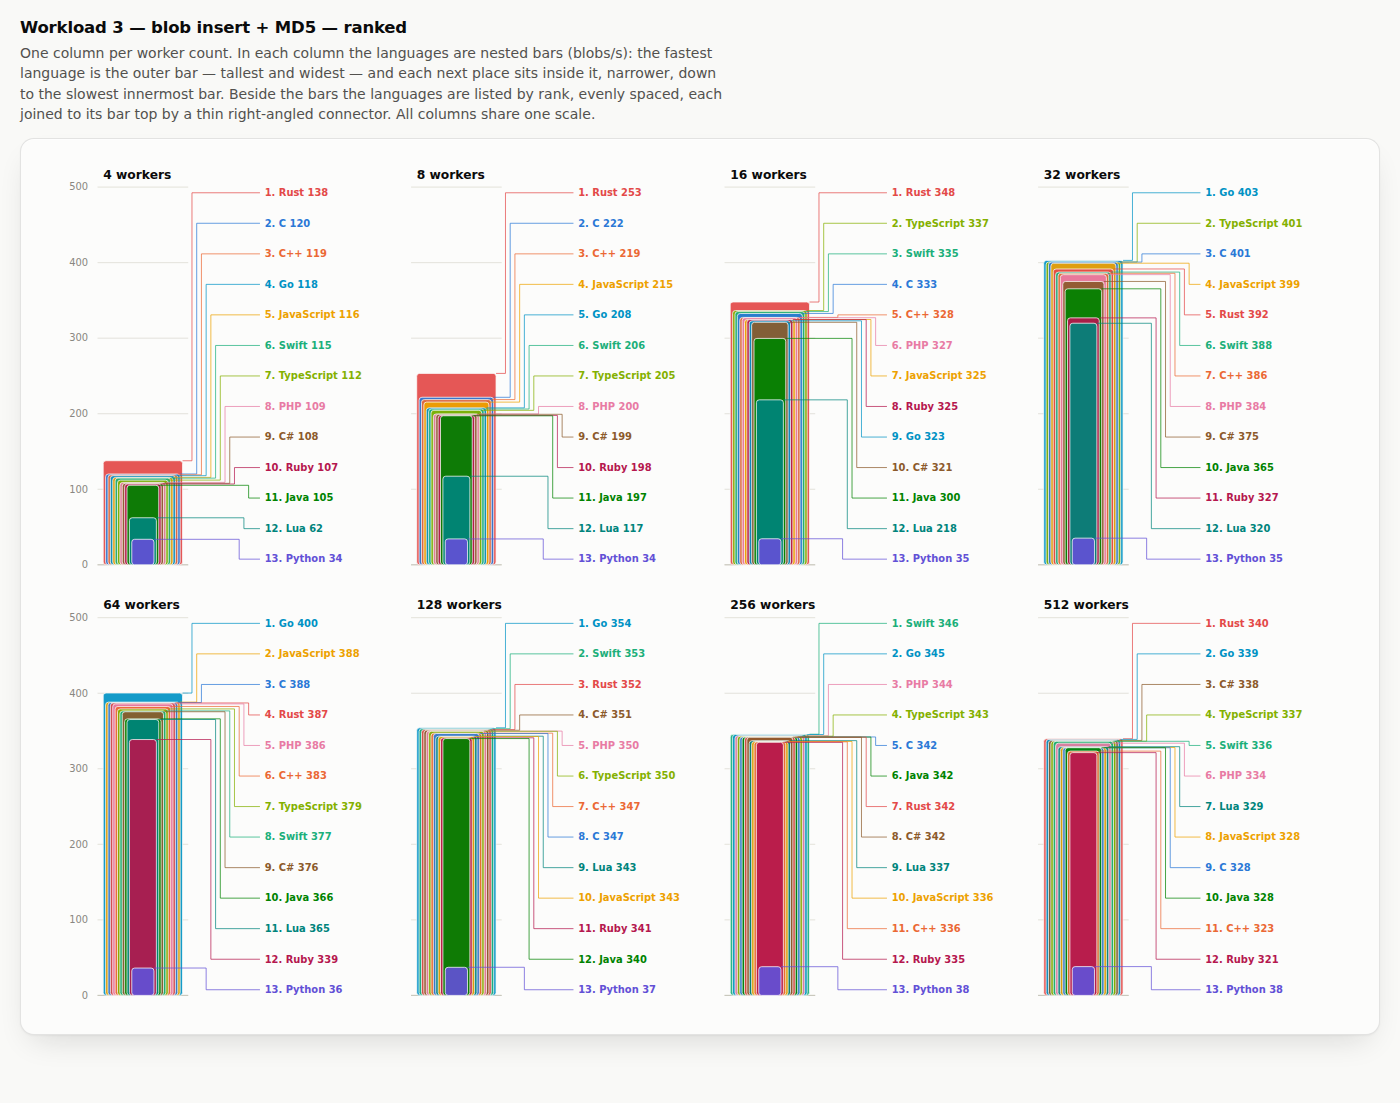
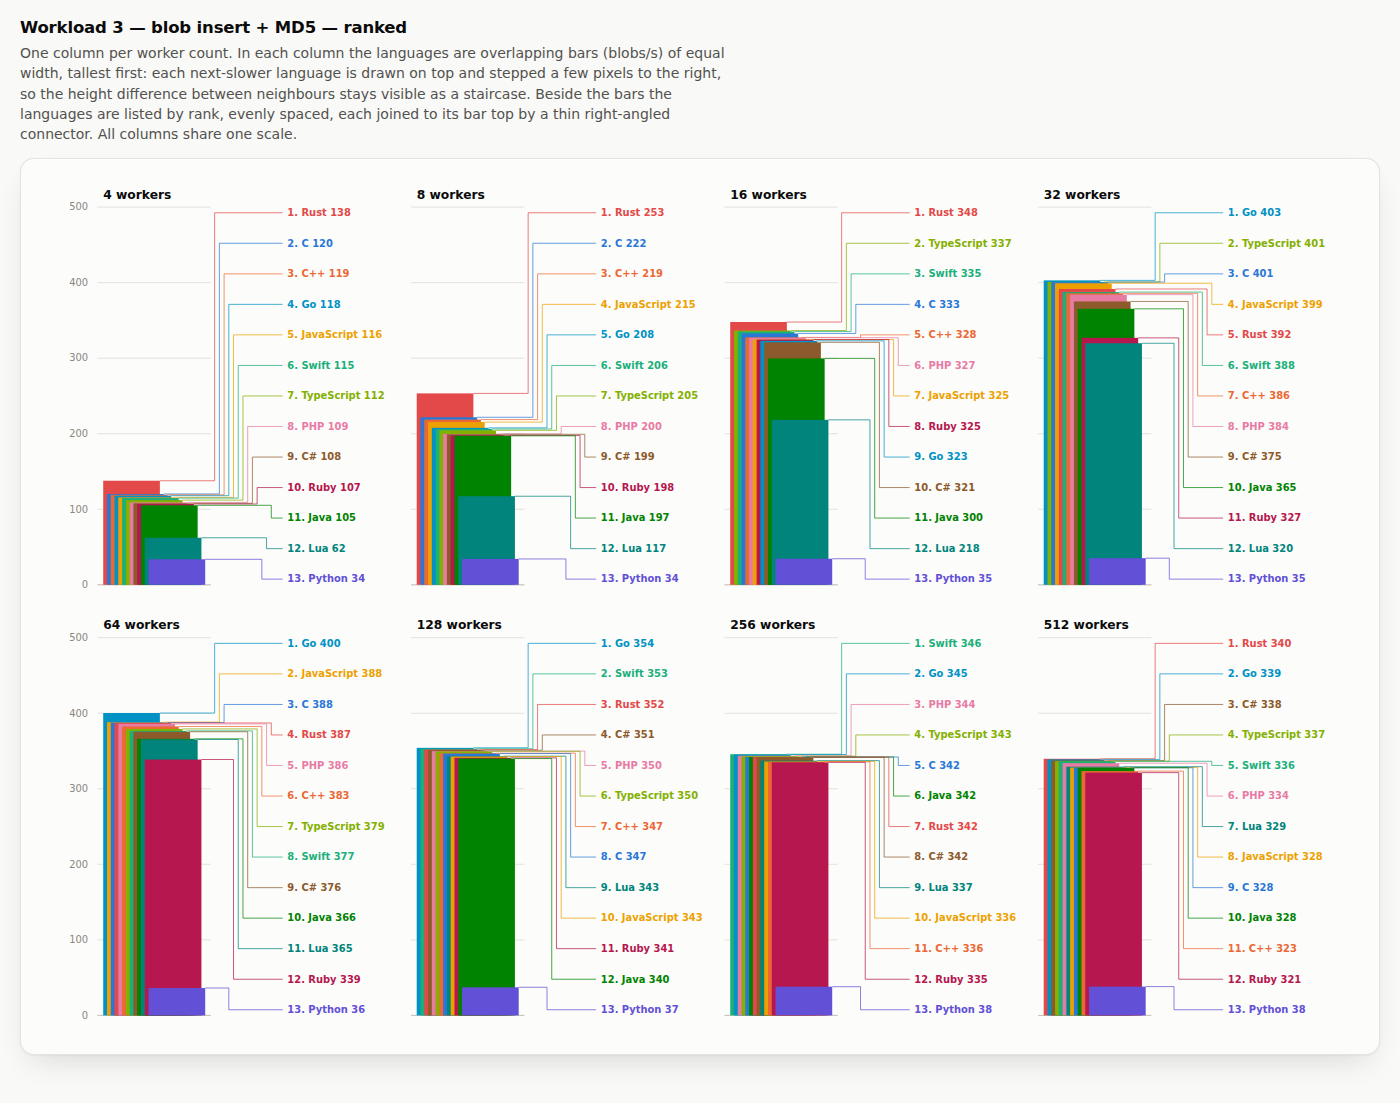
report: flat, equal-width, right-stepped bars on the ranked charts
Bars on ranked.html lose their rounded corners and outlines (solid colour only)
and are all the same width; instead of nesting narrower bars, each next-slower
language is drawn on top of the previous one shifted 4px to the right, so a
strip of every taller bar stays visible on the left and the height differences
read as a staircase. Subtitle updated to match.

diff --git a/report/ranked.html b/report/ranked.html
@@ -114,22 +114,22 @@
 
   <section id="sec-w1-rank">
     <h2>Workload 1 — integer insert — ranked</h2>
-    <p class="sub">One column per worker count. In each column the languages are nested bars (rows/s): the fastest language is the outer bar &mdash; tallest and widest &mdash; and each next place sits inside it, narrower, down to the slowest innermost bar. Beside the bars the languages are listed by rank, evenly spaced, each joined to its bar top by a thin right-angled connector. All columns share one scale.</p>
+    <p class="sub">One column per worker count. In each column the languages are overlapping bars (rows/s) of equal width, tallest first: each next-slower language is drawn on top and stepped a few pixels to the right, so the height difference between neighbours stays visible as a staircase. Beside the bars the languages are listed by rank, evenly spaced, each joined to its bar top by a thin right-angled connector. All columns share one scale.</p>
     <div class="bigchart" id="chart-w1-rank"></div>
   </section>
   <section id="sec-w2-rank">
     <h2>Workload 2 — integer fetch + sum — ranked</h2>
-    <p class="sub">One column per worker count. In each column the languages are nested bars (rows/s): the fastest language is the outer bar &mdash; tallest and widest &mdash; and each next place sits inside it, narrower, down to the slowest innermost bar. Beside the bars the languages are listed by rank, evenly spaced, each joined to its bar top by a thin right-angled connector. All columns share one scale.</p>
+    <p class="sub">One column per worker count. In each column the languages are overlapping bars (rows/s) of equal width, tallest first: each next-slower language is drawn on top and stepped a few pixels to the right, so the height difference between neighbours stays visible as a staircase. Beside the bars the languages are listed by rank, evenly spaced, each joined to its bar top by a thin right-angled connector. All columns share one scale.</p>
     <div class="bigchart" id="chart-w2-rank"></div>
   </section>
   <section id="sec-w3-rank">
     <h2>Workload 3 — blob insert + MD5 — ranked</h2>
-    <p class="sub">One column per worker count. In each column the languages are nested bars (blobs/s): the fastest language is the outer bar &mdash; tallest and widest &mdash; and each next place sits inside it, narrower, down to the slowest innermost bar. Beside the bars the languages are listed by rank, evenly spaced, each joined to its bar top by a thin right-angled connector. All columns share one scale.</p>
+    <p class="sub">One column per worker count. In each column the languages are overlapping bars (blobs/s) of equal width, tallest first: each next-slower language is drawn on top and stepped a few pixels to the right, so the height difference between neighbours stays visible as a staircase. Beside the bars the languages are listed by rank, evenly spaced, each joined to its bar top by a thin right-angled connector. All columns share one scale.</p>
     <div class="bigchart" id="chart-w3-rank"></div>
   </section>
   <section id="sec-w4-rank">
     <h2>Workload 4 — blob read + MD5 — ranked</h2>
-    <p class="sub">One column per worker count. In each column the languages are nested bars (blobs/s): the fastest language is the outer bar &mdash; tallest and widest &mdash; and each next place sits inside it, narrower, down to the slowest innermost bar. Beside the bars the languages are listed by rank, evenly spaced, each joined to its bar top by a thin right-angled connector. All columns share one scale.</p>
+    <p class="sub">One column per worker count. In each column the languages are overlapping bars (blobs/s) of equal width, tallest first: each next-slower language is drawn on top and stepped a few pixels to the right, so the height difference between neighbours stays visible as a staircase. Beside the bars the languages are listed by rank, evenly spaced, each joined to its bar top by a thin right-angled connector. All columns share one scale.</p>
     <div class="bigchart" id="chart-w4-rank"></div>
   </section>
   <footer>
@@ -424,7 +424,7 @@ const PAGE_BARS = false;
     const BW = 1400, ML = 58, MR = 14, CW = (BW - ML - MR) / COLS;
     const TITLE_H = 26, PLOT_H = 400, ROW_B = 30, RH = TITLE_H + PLOT_H + ROW_B, TOP = 8;
     const BH = TOP + ROWS * RH;
-    const GW = 84, INNER_MIN = 0.28, CHW = 5;
+    const BARW = 60, OFF = 4, CHW = 5;   // equal bar width; each shorter bar shifted right by OFF
     const svg = el("svg", { viewBox: `0 0 ${BW} ${BH}`, role: "img", "aria-label": cfg.ariaLabel });
     const step = cfg.yMax / 5;
     T.forEach((t, ti) => {
@@ -433,6 +433,9 @@ const PAGE_BARS = false;
       const pt = y0 + TITLE_H, pb = pt + PLOT_H;              // plot top / bottom (baseline)
       const Y = v => pb - (v / cfg.yMax) * PLOT_H;
       const bx0 = x0 + 10;                                     // bar group left
+      // Languages at this worker count, best first.
+      const ranked = items.filter(it => it.vals[ti] != null).map(it => ({ it, v: it.vals[ti] })).sort((a, b) => b.v - a.v);
+      const n = ranked.length, GW = BARW + Math.max(0, n - 1) * OFF;
       // Column title.
       const tt = el("text", { x: bx0, y: y0 + 17, class: "coltitle" }); tt.textContent = `${t} workers`; svg.appendChild(tt);
       // Gridlines behind the bar group; y tick labels once per row (first column).
@@ -440,16 +443,13 @@ const PAGE_BARS = false;
         svg.appendChild(el("line", { x1: bx0 - 6, x2: bx0 + GW + 6, y1: Y(tv), y2: Y(tv), stroke: "var(--grid)", "stroke-width": 1 }));
         if (c === 0) { const yl = el("text", { x: ML - 6, y: Y(tv) + 3.5, "text-anchor": "end" }); yl.textContent = tv === 0 ? "0" : fmt(tv); svg.appendChild(yl); } }
       svg.appendChild(el("line", { x1: bx0 - 6, x2: bx0 + GW + 6, y1: pb, y2: pb, stroke: "var(--baseline)", "stroke-width": 1 }));
-      // Languages at this worker count, best first.
-      const ranked = items.filter(it => it.vals[ti] != null).map(it => ({ it, v: it.vals[ti] })).sort((a, b) => b.v - a.v);
-      const n = ranked.length, cx = bx0 + GW / 2;
+      // Flat equal-width bars, tallest first; each shorter one drawn on top,
+      // shifted OFF px right, so the height differences read as a staircase.
       const tops = [];
       ranked.forEach((e, j) => {
         const yt = Y(e.v), h = Math.max(1, pb - yt);
-        const w = GW * (n > 1 ? 1 - (1 - INNER_MIN) * j / (n - 1) : 1);
-        const bx = cx - w / 2, rr = Math.min(3, w / 2);
-        const bar = el("rect", { x: bx, y: yt, width: w, height: h, rx: rr, ry: rr, fill: e.it.st.color, "fill-opacity": "0.92",
-                                 stroke: "var(--surface-1)", "stroke-width": 0.8 });
+        const w = BARW, bx = bx0 + j * OFF;
+        const bar = el("rect", { x: bx, y: yt, width: w, height: h, fill: e.it.st.color });
         bar.style.cursor = "crosshair";
         bar.addEventListener("pointerenter", ev => showBar(ev, t, e.it, e.v, cfg.unit));
         bar.addEventListener("pointermove", moveTip);

diff --git a/report/annotated.html b/report/annotated.html
@@ -428,7 +428,7 @@ const PAGE_BARS = false;
     const BW = 1400, ML = 58, MR = 14, CW = (BW - ML - MR) / COLS;
     const TITLE_H = 26, PLOT_H = 400, ROW_B = 30, RH = TITLE_H + PLOT_H + ROW_B, TOP = 8;
     const BH = TOP + ROWS * RH;
-    const GW = 84, INNER_MIN = 0.28, CHW = 5;
+    const BARW = 60, OFF = 4, CHW = 5;   // equal bar width; each shorter bar shifted right by OFF
     const svg = el("svg", { viewBox: `0 0 ${BW} ${BH}`, role: "img", "aria-label": cfg.ariaLabel });
     const step = cfg.yMax / 5;
     T.forEach((t, ti) => {
@@ -437,6 +437,9 @@ const PAGE_BARS = false;
       const pt = y0 + TITLE_H, pb = pt + PLOT_H;              // plot top / bottom (baseline)
       const Y = v => pb - (v / cfg.yMax) * PLOT_H;
       const bx0 = x0 + 10;                                     // bar group left
+      // Languages at this worker count, best first.
+      const ranked = items.filter(it => it.vals[ti] != null).map(it => ({ it, v: it.vals[ti] })).sort((a, b) => b.v - a.v);
+      const n = ranked.length, GW = BARW + Math.max(0, n - 1) * OFF;
       // Column title.
       const tt = el("text", { x: bx0, y: y0 + 17, class: "coltitle" }); tt.textContent = `${t} workers`; svg.appendChild(tt);
       // Gridlines behind the bar group; y tick labels once per row (first column).
@@ -444,16 +447,13 @@ const PAGE_BARS = false;
         svg.appendChild(el("line", { x1: bx0 - 6, x2: bx0 + GW + 6, y1: Y(tv), y2: Y(tv), stroke: "var(--grid)", "stroke-width": 1 }));
         if (c === 0) { const yl = el("text", { x: ML - 6, y: Y(tv) + 3.5, "text-anchor": "end" }); yl.textContent = tv === 0 ? "0" : fmt(tv); svg.appendChild(yl); } }
       svg.appendChild(el("line", { x1: bx0 - 6, x2: bx0 + GW + 6, y1: pb, y2: pb, stroke: "var(--baseline)", "stroke-width": 1 }));
-      // Languages at this worker count, best first.
-      const ranked = items.filter(it => it.vals[ti] != null).map(it => ({ it, v: it.vals[ti] })).sort((a, b) => b.v - a.v);
-      const n = ranked.length, cx = bx0 + GW / 2;
+      // Flat equal-width bars, tallest first; each shorter one drawn on top,
+      // shifted OFF px right, so the height differences read as a staircase.
       const tops = [];
       ranked.forEach((e, j) => {
         const yt = Y(e.v), h = Math.max(1, pb - yt);
-        const w = GW * (n > 1 ? 1 - (1 - INNER_MIN) * j / (n - 1) : 1);
-        const bx = cx - w / 2, rr = Math.min(3, w / 2);
-        const bar = el("rect", { x: bx, y: yt, width: w, height: h, rx: rr, ry: rr, fill: e.it.st.color, "fill-opacity": "0.92",
-                                 stroke: "var(--surface-1)", "stroke-width": 0.8 });
+        const w = BARW, bx = bx0 + j * OFF;
+        const bar = el("rect", { x: bx, y: yt, width: w, height: h, fill: e.it.st.color });
         bar.style.cursor = "crosshair";
         bar.addEventListener("pointerenter", ev => showBar(ev, t, e.it, e.v, cfg.unit));
         bar.addEventListener("pointermove", moveTip);

diff --git a/report/report.html b/report/report.html
@@ -508,7 +508,7 @@ const PAGE_BARS = false;
     const BW = 1400, ML = 58, MR = 14, CW = (BW - ML - MR) / COLS;
     const TITLE_H = 26, PLOT_H = 400, ROW_B = 30, RH = TITLE_H + PLOT_H + ROW_B, TOP = 8;
     const BH = TOP + ROWS * RH;
-    const GW = 84, INNER_MIN = 0.28, CHW = 5;
+    const BARW = 60, OFF = 4, CHW = 5;   // equal bar width; each shorter bar shifted right by OFF
     const svg = el("svg", { viewBox: `0 0 ${BW} ${BH}`, role: "img", "aria-label": cfg.ariaLabel });
     const step = cfg.yMax / 5;
     T.forEach((t, ti) => {
@@ -517,6 +517,9 @@ const PAGE_BARS = false;
       const pt = y0 + TITLE_H, pb = pt + PLOT_H;              // plot top / bottom (baseline)
       const Y = v => pb - (v / cfg.yMax) * PLOT_H;
       const bx0 = x0 + 10;                                     // bar group left
+      // Languages at this worker count, best first.
+      const ranked = items.filter(it => it.vals[ti] != null).map(it => ({ it, v: it.vals[ti] })).sort((a, b) => b.v - a.v);
+      const n = ranked.length, GW = BARW + Math.max(0, n - 1) * OFF;
       // Column title.
       const tt = el("text", { x: bx0, y: y0 + 17, class: "coltitle" }); tt.textContent = `${t} workers`; svg.appendChild(tt);
       // Gridlines behind the bar group; y tick labels once per row (first column).
@@ -524,16 +527,13 @@ const PAGE_BARS = false;
         svg.appendChild(el("line", { x1: bx0 - 6, x2: bx0 + GW + 6, y1: Y(tv), y2: Y(tv), stroke: "var(--grid)", "stroke-width": 1 }));
         if (c === 0) { const yl = el("text", { x: ML - 6, y: Y(tv) + 3.5, "text-anchor": "end" }); yl.textContent = tv === 0 ? "0" : fmt(tv); svg.appendChild(yl); } }
       svg.appendChild(el("line", { x1: bx0 - 6, x2: bx0 + GW + 6, y1: pb, y2: pb, stroke: "var(--baseline)", "stroke-width": 1 }));
-      // Languages at this worker count, best first.
-      const ranked = items.filter(it => it.vals[ti] != null).map(it => ({ it, v: it.vals[ti] })).sort((a, b) => b.v - a.v);
-      const n = ranked.length, cx = bx0 + GW / 2;
+      // Flat equal-width bars, tallest first; each shorter one drawn on top,
+      // shifted OFF px right, so the height differences read as a staircase.
       const tops = [];
       ranked.forEach((e, j) => {
         const yt = Y(e.v), h = Math.max(1, pb - yt);
-        const w = GW * (n > 1 ? 1 - (1 - INNER_MIN) * j / (n - 1) : 1);
-        const bx = cx - w / 2, rr = Math.min(3, w / 2);
-        const bar = el("rect", { x: bx, y: yt, width: w, height: h, rx: rr, ry: rr, fill: e.it.st.color, "fill-opacity": "0.92",
-                                 stroke: "var(--surface-1)", "stroke-width": 0.8 });
+        const w = BARW, bx = bx0 + j * OFF;
+        const bar = el("rect", { x: bx, y: yt, width: w, height: h, fill: e.it.st.color });
         bar.style.cursor = "crosshair";
         bar.addEventListener("pointerenter", ev => showBar(ev, t, e.it, e.v, cfg.unit));
         bar.addEventListener("pointermove", moveTip);

diff --git a/report/bars.html b/report/bars.html
@@ -428,7 +428,7 @@ const PAGE_BARS = true;
     const BW = 1400, ML = 58, MR = 14, CW = (BW - ML - MR) / COLS;
     const TITLE_H = 26, PLOT_H = 400, ROW_B = 30, RH = TITLE_H + PLOT_H + ROW_B, TOP = 8;
     const BH = TOP + ROWS * RH;
-    const GW = 84, INNER_MIN = 0.28, CHW = 5;
+    const BARW = 60, OFF = 4, CHW = 5;   // equal bar width; each shorter bar shifted right by OFF
     const svg = el("svg", { viewBox: `0 0 ${BW} ${BH}`, role: "img", "aria-label": cfg.ariaLabel });
     const step = cfg.yMax / 5;
     T.forEach((t, ti) => {
@@ -437,6 +437,9 @@ const PAGE_BARS = true;
       const pt = y0 + TITLE_H, pb = pt + PLOT_H;              // plot top / bottom (baseline)
       const Y = v => pb - (v / cfg.yMax) * PLOT_H;
       const bx0 = x0 + 10;                                     // bar group left
+      // Languages at this worker count, best first.
+      const ranked = items.filter(it => it.vals[ti] != null).map(it => ({ it, v: it.vals[ti] })).sort((a, b) => b.v - a.v);
+      const n = ranked.length, GW = BARW + Math.max(0, n - 1) * OFF;
       // Column title.
       const tt = el("text", { x: bx0, y: y0 + 17, class: "coltitle" }); tt.textContent = `${t} workers`; svg.appendChild(tt);
       // Gridlines behind the bar group; y tick labels once per row (first column).
@@ -444,16 +447,13 @@ const PAGE_BARS = true;
         svg.appendChild(el("line", { x1: bx0 - 6, x2: bx0 + GW + 6, y1: Y(tv), y2: Y(tv), stroke: "var(--grid)", "stroke-width": 1 }));
         if (c === 0) { const yl = el("text", { x: ML - 6, y: Y(tv) + 3.5, "text-anchor": "end" }); yl.textContent = tv === 0 ? "0" : fmt(tv); svg.appendChild(yl); } }
       svg.appendChild(el("line", { x1: bx0 - 6, x2: bx0 + GW + 6, y1: pb, y2: pb, stroke: "var(--baseline)", "stroke-width": 1 }));
-      // Languages at this worker count, best first.
-      const ranked = items.filter(it => it.vals[ti] != null).map(it => ({ it, v: it.vals[ti] })).sort((a, b) => b.v - a.v);
-      const n = ranked.length, cx = bx0 + GW / 2;
+      // Flat equal-width bars, tallest first; each shorter one drawn on top,
+      // shifted OFF px right, so the height differences read as a staircase.
       const tops = [];
       ranked.forEach((e, j) => {
         const yt = Y(e.v), h = Math.max(1, pb - yt);
-        const w = GW * (n > 1 ? 1 - (1 - INNER_MIN) * j / (n - 1) : 1);
-        const bx = cx - w / 2, rr = Math.min(3, w / 2);
-        const bar = el("rect", { x: bx, y: yt, width: w, height: h, rx: rr, ry: rr, fill: e.it.st.color, "fill-opacity": "0.92",
-                                 stroke: "var(--surface-1)", "stroke-width": 0.8 });
+        const w = BARW, bx = bx0 + j * OFF;
+        const bar = el("rect", { x: bx, y: yt, width: w, height: h, fill: e.it.st.color });
         bar.style.cursor = "crosshair";
         bar.addEventListener("pointerenter", ev => showBar(ev, t, e.it, e.v, cfg.unit));
         bar.addEventListener("pointermove", moveTip);

diff --git a/report/generate_html_report.py b/report/generate_html_report.py
@@ -328,7 +328,7 @@ def main():
         rank_sections += f"""
   <section id="sec-{sid}-rank">
     <h2>{m['title']} — ranked</h2>
-    <p class="sub">One column per worker count. In each column the languages are nested bars ({m['unit']}): the fastest language is the outer bar &mdash; tallest and widest &mdash; and each next place sits inside it, narrower, down to the slowest innermost bar. Beside the bars the languages are listed by rank, evenly spaced, each joined to its bar top by a thin right-angled connector. All columns share one scale.</p>
+    <p class="sub">One column per worker count. In each column the languages are overlapping bars ({m['unit']}) of equal width, tallest first: each next-slower language is drawn on top and stepped a few pixels to the right, so the height difference between neighbours stays visible as a staircase. Beside the bars the languages are listed by rank, evenly spaced, each joined to its bar top by a thin right-angled connector. All columns share one scale.</p>
     <div class="bigchart" id="chart-{sid}-rank"></div>
   </section>"""
         png_ann.append(f"{sid}-ann")
@@ -877,7 +877,7 @@ const PAGE_BARS = __PAGE_BARS__;
     const BW = 1400, ML = 58, MR = 14, CW = (BW - ML - MR) / COLS;
     const TITLE_H = 26, PLOT_H = 400, ROW_B = 30, RH = TITLE_H + PLOT_H + ROW_B, TOP = 8;
     const BH = TOP + ROWS * RH;
-    const GW = 84, INNER_MIN = 0.28, CHW = 5;
+    const BARW = 60, OFF = 4, CHW = 5;   // equal bar width; each shorter bar shifted right by OFF
     const svg = el("svg", { viewBox: `0 0 ${BW} ${BH}`, role: "img", "aria-label": cfg.ariaLabel });
     const step = cfg.yMax / 5;
     T.forEach((t, ti) => {
@@ -886,6 +886,9 @@ const PAGE_BARS = __PAGE_BARS__;
       const pt = y0 + TITLE_H, pb = pt + PLOT_H;              // plot top / bottom (baseline)
       const Y = v => pb - (v / cfg.yMax) * PLOT_H;
       const bx0 = x0 + 10;                                     // bar group left
+      // Languages at this worker count, best first.
+      const ranked = items.filter(it => it.vals[ti] != null).map(it => ({ it, v: it.vals[ti] })).sort((a, b) => b.v - a.v);
+      const n = ranked.length, GW = BARW + Math.max(0, n - 1) * OFF;
       // Column title.
       const tt = el("text", { x: bx0, y: y0 + 17, class: "coltitle" }); tt.textContent = `${t} workers`; svg.appendChild(tt);
       // Gridlines behind the bar group; y tick labels once per row (first column).
@@ -893,16 +896,13 @@ const PAGE_BARS = __PAGE_BARS__;
         svg.appendChild(el("line", { x1: bx0 - 6, x2: bx0 + GW + 6, y1: Y(tv), y2: Y(tv), stroke: "var(--grid)", "stroke-width": 1 }));
         if (c === 0) { const yl = el("text", { x: ML - 6, y: Y(tv) + 3.5, "text-anchor": "end" }); yl.textContent = tv === 0 ? "0" : fmt(tv); svg.appendChild(yl); } }
       svg.appendChild(el("line", { x1: bx0 - 6, x2: bx0 + GW + 6, y1: pb, y2: pb, stroke: "var(--baseline)", "stroke-width": 1 }));
-      // Languages at this worker count, best first.
-      const ranked = items.filter(it => it.vals[ti] != null).map(it => ({ it, v: it.vals[ti] })).sort((a, b) => b.v - a.v);
-      const n = ranked.length, cx = bx0 + GW / 2;
+      // Flat equal-width bars, tallest first; each shorter one drawn on top,
+      // shifted OFF px right, so the height differences read as a staircase.
       const tops = [];
       ranked.forEach((e, j) => {
         const yt = Y(e.v), h = Math.max(1, pb - yt);
-        const w = GW * (n > 1 ? 1 - (1 - INNER_MIN) * j / (n - 1) : 1);
-        const bx = cx - w / 2, rr = Math.min(3, w / 2);
-        const bar = el("rect", { x: bx, y: yt, width: w, height: h, rx: rr, ry: rr, fill: e.it.st.color, "fill-opacity": "0.92",
-                                 stroke: "var(--surface-1)", "stroke-width": 0.8 });
+        const w = BARW, bx = bx0 + j * OFF;
+        const bar = el("rect", { x: bx, y: yt, width: w, height: h, fill: e.it.st.color });
         bar.style.cursor = "crosshair";
         bar.addEventListener("pointerenter", ev => showBar(ev, t, e.it, e.v, cfg.unit));
         bar.addEventListener("pointermove", moveTip);
